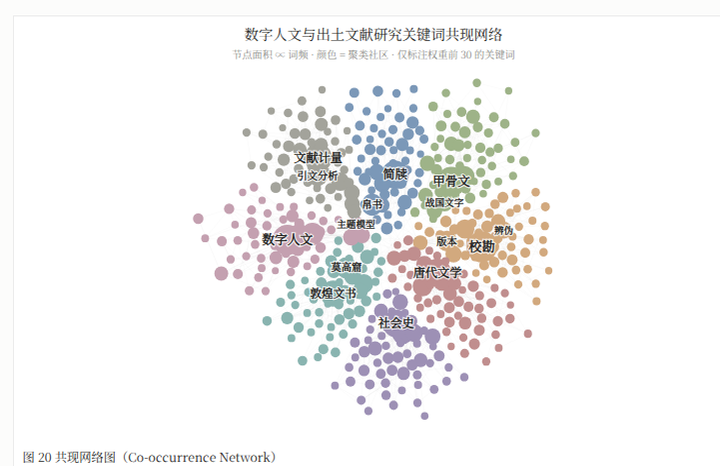
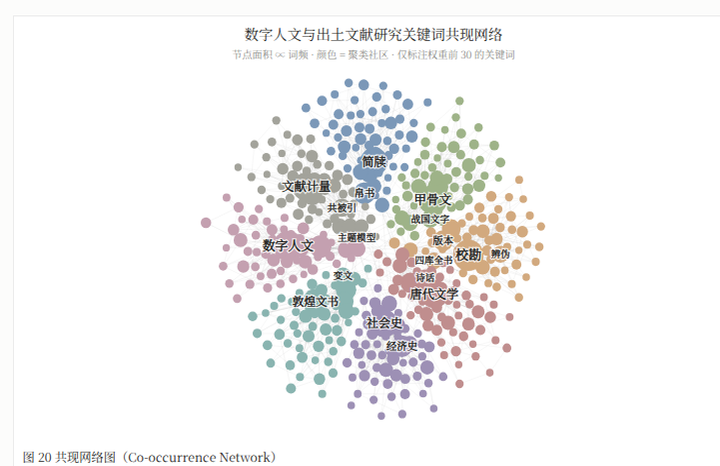
共现网络图：边默认透明度 0.05→0.10，连线可见保留结构感

diff --git a/src/app.js b/src/app.js
@@ -1,26 +1,26 @@
 /* ============ 应用外壳：图表切换 / 尺寸预设 / 配色 / 数据编辑 / 导出 ============ */
 
-import { PAL, PALETTES, FONT, setFont } from './core/svg.js?v=20261114b';
-import { draw as trend } from './charts/trend.js?v=20261114b';
-import { draw as bars } from './charts/bars.js?v=20261114b';
-import { draw as heatmap } from './charts/heatmap.js?v=20261114b';
-import { draw as radar } from './charts/radar.js?v=20261114b';
-import { draw as raincloud } from './charts/raincloud.js?v=20261114b';
-import { draw as upset } from './charts/upset.js?v=20261114b';
-import { draw as slope } from './charts/slope.js?v=20261114b';
-import { draw as trendtopic } from './charts/trendtopic.js?v=20261114b';
-import { draw as thematic } from './charts/thematic.js?v=20261114b';
-import { draw as dotplot } from './charts/dotplot.js?v=20261114b';
-import { draw as forest } from './charts/forest.js?v=20261114b';
-import { draw as estimation } from './charts/estimation.js?v=20261114b';
-import { draw as ridgeline } from './charts/ridgeline.js?v=20261114b';
-import { draw as blandaltman } from './charts/blandaltman.js?v=20261114b';
-import { draw as kaplanmeier } from './charts/kaplanmeier.js?v=20261114b';
-import { draw as roc } from './charts/roc.js?v=20261114b';
-import { draw as qq } from './charts/qq.js?v=20261114b';
-import { draw as stl } from './charts/stl.js?v=20261114b';
-import { draw as network } from './charts/network.js?v=20261114b';
-import { exportSVG, exportPNG, exportPDF } from './export.js?v=20261114b';
+import { PAL, PALETTES, FONT, setFont } from './core/svg.js?v=20261114c';
+import { draw as trend } from './charts/trend.js?v=20261114c';
+import { draw as bars } from './charts/bars.js?v=20261114c';
+import { draw as heatmap } from './charts/heatmap.js?v=20261114c';
+import { draw as radar } from './charts/radar.js?v=20261114c';
+import { draw as raincloud } from './charts/raincloud.js?v=20261114c';
+import { draw as upset } from './charts/upset.js?v=20261114c';
+import { draw as slope } from './charts/slope.js?v=20261114c';
+import { draw as trendtopic } from './charts/trendtopic.js?v=20261114c';
+import { draw as thematic } from './charts/thematic.js?v=20261114c';
+import { draw as dotplot } from './charts/dotplot.js?v=20261114c';
+import { draw as forest } from './charts/forest.js?v=20261114c';
+import { draw as estimation } from './charts/estimation.js?v=20261114c';
+import { draw as ridgeline } from './charts/ridgeline.js?v=20261114c';
+import { draw as blandaltman } from './charts/blandaltman.js?v=20261114c';
+import { draw as kaplanmeier } from './charts/kaplanmeier.js?v=20261114c';
+import { draw as roc } from './charts/roc.js?v=20261114c';
+import { draw as qq } from './charts/qq.js?v=20261114c';
+import { draw as stl } from './charts/stl.js?v=20261114c';
+import { draw as network } from './charts/network.js?v=20261114c';
+import { exportSVG, exportPNG, exportPDF } from './export.js?v=20261114c';
 
 const CHARTS = {
   trend: { name: '趋势图', mod: trend },
@@ -61,7 +61,7 @@ const state = {
 const $ = s => document.querySelector(s);
 
 async function loadSamples() {
-  const list = await (await fetch('./samples/index.json?v=20261114b')).json();
+  const list = await (await fetch('./samples/index.json?v=20261114c')).json();
   const sel = $('#sampleSel');
   sel.innerHTML = '';
   for (const s of list) {
@@ -76,7 +76,7 @@ async function loadSamples() {
 }
 
 async function loadSample(file, type, resetType) {
-  const j = await (await fetch('./samples/' + file + '?v=20261114b')).json();
+  const j = await (await fetch('./samples/' + file + '?v=20261114c')).json();
   if (j.type && CHARTS[j.type]) { state.type = j.type; autoSize(j.type); }
   state.data = j.data;
   state.meta = { ...j.opts };
@@ -181,7 +181,7 @@ buildUI();
 loadSamples().catch(async e => {
   /* file:// 直开时 fetch 失败 → 内嵌兜底数据 */
   console.warn(e);
-  const { FALLBACK } = await import('./fallback.js?v=20261114b');
+  const { FALLBACK } = await import('./fallback.js?v=20261114c');
   state.type = 'trend'; state.data = FALLBACK.data; state.meta = { ...FALLBACK.opts };
   syncForm(); render();
 });

diff --git a/src/charts/network.js b/src/charts/network.js
@@ -1,8 +1,8 @@
 /* ============ 共现网络图（Co-occurrence Network，VOSviewer 式） ============ */
 
-import { el, text, INK, colors } from '../core/svg.js?v=20261114b';
-import { caption, figureNote, fmt } from '../core/axis.js?v=20261114b';
-import { tip, tipHide } from '../core/tip.js?v=20261114b';
+import { el, text, INK, colors } from '../core/svg.js?v=20261114c';
+import { caption, figureNote, fmt } from '../core/axis.js?v=20261114c';
+import { tip, tipHide } from '../core/tip.js?v=20261114c';
 
 /*
  * data = {
@@ -12,7 +12,7 @@ import { tip, tipHide } from '../core/tip.js?v=20261114b';
  * }
  * o = {
  *   labels: 30,          // 只给权重最大的 N 个节点标标签（0 = 全不标）
- *   edgeOpacity: .05,    // 边透明度（高密度网络建议 ≤.08）
+ *   edgeOpacity: .1,     // 边透明度（0 = 隐藏；节点多时建议 .06–.15）
  *   iterations: 260      // 力模拟迭代数
  * }
  *
@@ -162,8 +162,8 @@ export function draw(svg, data, o = {}) {
   const rMax = n > 400 ? 3.6 : n > 150 ? 4.4 : 5.2;
   const rOf = w => .45 + (rMax - .45) * Math.sqrt(w / wmax);
 
-  /* ---- 边（极淡，高密度时不喧宾夺主） ---- */
-  const eOp = o.edgeOpacity ?? .05;
+  /* ---- 边（淡线保留结构感，透明度可用 opts.edgeOpacity 调） ---- */
+  const eOp = o.edgeOpacity ?? .1;
   const gE = el('g', {}, svg);
   for (const [s, t, w] of E) {
     if (s < 0 || t < 0 || s >= n || t >= n || s === t) continue;

diff --git a/src/charts/stl.js b/src/charts/stl.js
@@ -1,10 +1,10 @@
 /* ============ 时间序列分解（观测 = 趋势 + 季节 + 残差，经典分解） ============ */
 /* 四联面板：趋势漂移、季节模式、残差白噪——时间序列的第一诊断图 */
 
-import { el, text, INK, colors } from '../core/svg.js?v=20261114b';
-import { caption, figureNote, fmt } from '../core/axis.js?v=20261114b';
-import { niceTicks, linear, smoothPath } from '../core/scale.js?v=20261114b';
-import { tip, tipHide } from '../core/tip.js?v=20261114b';
+import { el, text, INK, colors } from '../core/svg.js?v=20261114c';
+import { caption, figureNote, fmt } from '../core/axis.js?v=20261114c';
+import { niceTicks, linear, smoothPath } from '../core/scale.js?v=20261114c';
+import { tip, tipHide } from '../core/tip.js?v=20261114c';
 
 /*
  * data = { t: [0..n-1 序号或年月数值], values: [..], period: 12 }

diff --git a/src/charts/kaplanmeier.js b/src/charts/kaplanmeier.js
@@ -1,10 +1,10 @@
 /* ============ Kaplan-Meier 生存曲线（时间到事件 + 删失 + log-rank + 风险表） ============ */
 /* Kaplan & Meier 1958 —— 生存分析的标准图， Greenwood CI · Mantel-Haenszel log-rank */
 
-import { el, text, INK, colors } from '../core/svg.js?v=20261114b';
-import { caption, figureNote, fmt } from '../core/axis.js?v=20261114b';
-import { niceTicks, linear } from '../core/scale.js?v=20261114b';
-import { tip, tipHide } from '../core/tip.js?v=20261114b';
+import { el, text, INK, colors } from '../core/svg.js?v=20261114c';
+import { caption, figureNote, fmt } from '../core/axis.js?v=20261114c';
+import { niceTicks, linear } from '../core/scale.js?v=20261114c';
+import { tip, tipHide } from '../core/tip.js?v=20261114c';
 
 /* 误差函数补（log-rank p 值用， A&S 7.1.26） */
 const erfc = x => {

diff --git a/src/charts/qq.js b/src/charts/qq.js
@@ -1,10 +1,10 @@
 /* ============ Q-Q 图（分布正态性检查：样本分位数 vs 理论分位数） ============ */
 /* 检查分布假设的第一图 —— 点贴线 = 正态 */
 
-import { el, text, INK, colors } from '../core/svg.js?v=20261114b';
-import { caption, figureNote, fmt } from '../core/axis.js?v=20261114b';
-import { niceTicks, linear } from '../core/scale.js?v=20261114b';
-import { tip, tipHide } from '../core/tip.js?v=20261114b';
+import { el, text, INK, colors } from '../core/svg.js?v=20261114c';
+import { caption, figureNote, fmt } from '../core/axis.js?v=20261114c';
+import { niceTicks, linear } from '../core/scale.js?v=20261114c';
+import { tip, tipHide } from '../core/tip.js?v=20261114c';
 
 /* 标准正态分位数函数 Φ⁻¹（A&S 26.2.23，|ε| < 4.5e-4，画图足够） */
 const qnorm = p => {

diff --git a/src/charts/roc.js b/src/charts/roc.js
@@ -1,10 +1,10 @@
 /* ============ ROC 曲线（诊断准确性 + AUC + Youden 最佳切点） ============ */
 /* signal detection —— 灵敏度 / 特异度权衡的标准呈现 */
 
-import { el, text, INK, colors } from '../core/svg.js?v=20261114b';
-import { caption, figureNote, fmt } from '../core/axis.js?v=20261114b';
-import { linear, mulberry32 } from '../core/scale.js?v=20261114b';
-import { tip, tipHide } from '../core/tip.js?v=20261114b';
+import { el, text, INK, colors } from '../core/svg.js?v=20261114c';
+import { caption, figureNote, fmt } from '../core/axis.js?v=20261114c';
+import { linear, mulberry32 } from '../core/scale.js?v=20261114c';
+import { tip, tipHide } from '../core/tip.js?v=20261114c';
 
 /* 秩法 AUC（含并列平均秩） */
 function aucRank(pos, neg) {

diff --git a/src/charts/estimation.js b/src/charts/estimation.js
@@ -1,10 +1,10 @@
 /* ============ 估计图（Gardner-Altman：效应量 + bootstrap CI） ============ */
 /* estimation statistics 运动：不报 p 值，直接画效应大小与不确定性 */
 
-import { el, text, INK, colors } from '../core/svg.js?v=20261114b';
-import { caption, figureNote, fmt } from '../core/axis.js?v=20261114b';
-import { niceTicks, linear, kde, mulberry32 } from '../core/scale.js?v=20261114b';
-import { tip, tipHide } from '../core/tip.js?v=20261114b';
+import { el, text, INK, colors } from '../core/svg.js?v=20261114c';
+import { caption, figureNote, fmt } from '../core/axis.js?v=20261114c';
+import { niceTicks, linear, kde, mulberry32 } from '../core/scale.js?v=20261114c';
+import { tip, tipHide } from '../core/tip.js?v=20261114c';
 
 /*
  * data = {

diff --git a/src/charts/ridgeline.js b/src/charts/ridgeline.js
@@ -1,10 +1,10 @@
 /* ============ 山脊图（多分布错层叠放：分布随类别/时间的漂移） ============ */
 /* ridgeline / joyplot —— 20 个小直方图的优雅替身 */
 
-import { el, text, INK, colors } from '../core/svg.js?v=20261114b';
-import { caption, figureNote, fmt } from '../core/axis.js?v=20261114b';
-import { niceTicks, linear, kde, smoothPath } from '../core/scale.js?v=20261114b';
-import { tip, tipHide } from '../core/tip.js?v=20261114b';
+import { el, text, INK, colors } from '../core/svg.js?v=20261114c';
+import { caption, figureNote, fmt } from '../core/axis.js?v=20261114c';
+import { niceTicks, linear, kde, smoothPath } from '../core/scale.js?v=20261114c';
+import { tip, tipHide } from '../core/tip.js?v=20261114c';
 
 /*
  * data = {

diff --git a/src/charts/blandaltman.js b/src/charts/blandaltman.js
@@ -1,10 +1,10 @@
 /* ============ Bland-Altman 图（两种测量的一致性：Tukey 均值-差图） ============ */
 /* Bland & Altman 1986, The Lancet —— 方法学比对/评分员信度的标准图 */
 
-import { el, text, INK, colors } from '../core/svg.js?v=20261114b';
-import { caption, figureNote, fmt } from '../core/axis.js?v=20261114b';
-import { niceTicks, linear } from '../core/scale.js?v=20261114b';
-import { tip, tipHide } from '../core/tip.js?v=20261114b';
+import { el, text, INK, colors } from '../core/svg.js?v=20261114c';
+import { caption, figureNote, fmt } from '../core/axis.js?v=20261114c';
+import { niceTicks, linear } from '../core/scale.js?v=20261114c';
+import { tip, tipHide } from '../core/tip.js?v=20261114c';
 
 /*
  * data = {

diff --git a/src/charts/raincloud.js b/src/charts/raincloud.js
@@ -1,10 +1,10 @@
 /* ============ 雨云图（半小提琴 + 箱线 + 原始散点：新一代柱状图替身） ============ */
 /* Allen et al. 2019, Raincloud plots: a multi-platform tool... */
 
-import { el, text, INK, colors } from '../core/svg.js?v=20261114b';
-import { caption, figureNote, fmt } from '../core/axis.js?v=20261114b';
-import { niceTicks, linear } from '../core/scale.js?v=20261114b';
-import { tip, tipHide } from '../core/tip.js?v=20261114b';
+import { el, text, INK, colors } from '../core/svg.js?v=20261114c';
+import { caption, figureNote, fmt } from '../core/axis.js?v=20261114c';
+import { niceTicks, linear } from '../core/scale.js?v=20261114c';
+import { tip, tipHide } from '../core/tip.js?v=20261114c';
 
 /*
  * data = {

diff --git a/src/charts/forest.js b/src/charts/forest.js
@@ -1,10 +1,10 @@
 /* ============ 森林图（元分析合并效应：证据综合的招牌图） ============ */
 /* 逆方差权重 + DerSimonian-Laird 随机效应 + Q / I² 异质性检验 */
 
-import { el, text, INK, colors } from '../core/svg.js?v=20261114b';
-import { caption, figureNote, fmt } from '../core/axis.js?v=20261114b';
-import { niceTicks, linear } from '../core/scale.js?v=20261114b';
-import { tip, tipHide } from '../core/tip.js?v=20261114b';
+import { el, text, INK, colors } from '../core/svg.js?v=20261114c';
+import { caption, figureNote, fmt } from '../core/axis.js?v=20261114c';
+import { niceTicks, linear } from '../core/scale.js?v=20261114c';
+import { tip, tipHide } from '../core/tip.js?v=20261114c';
 
 /*
  * data = {

diff --git a/src/charts/thematic.js b/src/charts/thematic.js
@@ -1,10 +1,10 @@
 /* ============ 战略坐标图（密度 × 向心性四象限：文献计量主题定位） ============ */
 /* Cobo et al. 2011, bibliometrix thematic map */
 
-import { el, text, INK, colors } from '../core/svg.js?v=20261114b';
-import { caption, figureNote, fmt } from '../core/axis.js?v=20261114b';
-import { niceTicks, linear } from '../core/scale.js?v=20261114b';
-import { tip, tipHide } from '../core/tip.js?v=20261114b';
+import { el, text, INK, colors } from '../core/svg.js?v=20261114c';
+import { caption, figureNote, fmt } from '../core/axis.js?v=20261114c';
+import { niceTicks, linear } from '../core/scale.js?v=20261114c';
+import { tip, tipHide } from '../core/tip.js?v=20261114c';
 
 /*
  * data = {
